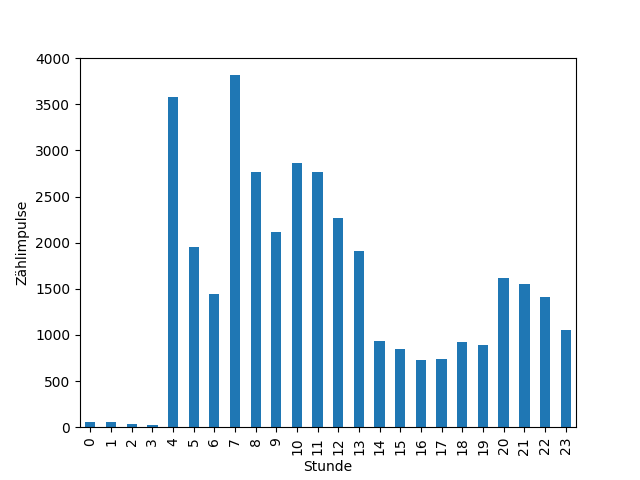
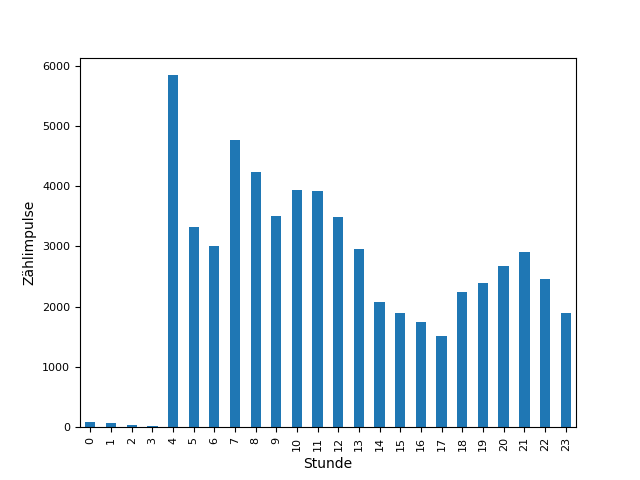
Berichte erweitert, Doku ergänzt

diff --git a/web/index.html b/web/index.html
@@ -2,10 +2,13 @@
 <html class="no-js" lang="">
     <head>
         <meta charset="utf-8">
-        <meta http-equiv="X-UA-Compatible" content="IE=edge,chrome=1">
-        <title></title>
+        <meta http-equiv="X-UA-Compatible" content="IE=edge">
+        <title>Statistiken zum Gaszähler</title>
         <meta name="description" content="">
         <meta name="viewport" content="width=device-width, initial-scale=1">
+
+        <link rel="shortcut icon" href="favicon.ico">
+        <link rel="icon" type="image/png" href="tile.png" sizes="251x251">
         <link rel="apple-touch-icon" href="apple-touch-icon.png">
 
         <link rel="stylesheet" href="css/normalize.min.css">
@@ -20,7 +23,7 @@
 
         <div class="header-container">
             <header class="wrapper clearfix">
-                <h1 class="title">Statistik zum Gaszähler</h1>
+                <h1 class="title">Statistiken zum Gaszähler</h1>
             </header>
         </div>
 
@@ -28,12 +31,20 @@
             <div class="main wrapper clearfix">
 
                 <article>
-                    <div>Gas nach Tag</div>
-                    <img src="img/diagramm_gas_pro_tag.png" alt="Gas nach Tag">
-                    <div>Gas nach Stunde</div>
-                    <img src="img/diagramm_gas_pro_stunde.png" alt="Gas nach Stunde">
+                    <p><b>Erklärung:</b> 1 Zählimpuls entspricht 0,01 m&sup3;. Laut Gasanbieter entspricht 1 m&sup3; dann 10,757 kWh (Stand: 2022). Ein Zählimpuls entspricht also 0,10757 kWh.</p>
+                    <h2>Gas nach Datum (letzte 30 Tage):</h2>
+                    <img src="img/diagramm_gas_pro_tag_letzte_30.png" alt="Gas nach Datum (letzte 30 Tage)">
+                    <hr>
+                    <h2>Gas nach Stunde (gestern):</h2>
+                    <img src="img/diagramm_gas_pro_stunde_gestern.png" alt="Gas nach Stunde (gestern)">
+                    <hr>
+                    <h2>Gas nach Datum (gesamter Zeitraum):</h2>
+                    <img src="img/diagramm_gas_pro_tag.png" alt="Gas nach Datum (gesamter Zeitraum)">
+                    <hr>
+                    <h2>Gas nach Stunde (gesamter Zeitraum):</h2>
+                    <img src="img/diagramm_gas_pro_stunde.png" alt="Gas nach Stunde (gesamter Zeitraum)">
+                    <hr>
                 </article>
-
 
             </div> <!-- #main -->
         </div> <!-- #main-container -->

diff --git a/create_report.py b/create_report.py
@@ -1,8 +1,20 @@
+"""Erstellt Grafiken aus den von interrupt.py gesammelten Daten
+   Autor: Klaus Ritter, Lizenz: MIT
+"""
+
 from datetime import datetime
+from datetime import timedelta
 import pandas as pd
 import matplotlib.pyplot as plt
 import ftplib
 import zaehlerconfig
+import logging
+
+logging.basicConfig(format='%(asctime)s %(message)s')
+logger = logging.getLogger(__name__)
+logger.setLevel(logging.DEBUG)
+
+logdateiname = "zaehler.csv"
 
 # Hilfreiche Befehle
 # print(df.to_string())
@@ -13,7 +25,7 @@ import zaehlerconfig
 
 ############################# Daten vorbereiten ###############################
 # CSV-Datei in Pandas einlesen, Spaltentitel definieren
-df = pd.read_csv('zaehler.csv', sep=';', names=['Impuls', 'Nummer', 'Label', 'Zeitpunkt'])
+df = pd.read_csv(logdateiname, sep=';', names=['Impuls', 'Nummer', 'Label', 'Zeitpunkt'])
 
 # unnötige Spalten löschen
 df = df.drop(columns=['Impuls', 'Nummer', 'Label'])
@@ -24,10 +36,11 @@ df['Datum'] = pd.to_datetime(df['Zeitpunkt'], format='%Y-%m-%d')
 
 ############################# Summe nach Datum (Tag) ###############################
 # Summe pro Tag bilden (gruppieren)
+logger.debug('Tage gruppieren')
 df_gruppiert_datum = df.groupby(pd.Grouper(key='Datum',freq='5D')).agg(summe=('Datum', 'count'))
 
 # Diagramm erstellen
-gas_nach_datum = df_gruppiert_datum.plot(kind = 'bar', xlabel = 'Datum', ylabel = 'Zählimpulse', legend = False)
+gas_nach_datum = df_gruppiert_datum.plot(kind = 'bar', fontsize=8, xlabel = 'Datum', ylabel = 'Zählimpulse', legend = False)
 
 # Beschriftung der x-Achse in ein schönes Format bringen
 x_labels = df_gruppiert_datum.index.strftime('%d.%m.')
@@ -36,28 +49,66 @@ gas_nach_datum.set_xticklabels(x_labels)
 # Ergebnis als Bild speichern
 plt.savefig('web/img/diagramm_gas_pro_tag.png')
 
+############################# Summe nach Datum (letzte 30 Tage) ###############################
+# Summe pro Tag bilden (gruppieren)
+logger.debug('Tage gruppieren (letzte 30 Tage)')
+heute = datetime.today().strftime('%Y-%m-%d') # das Skript sollte erst nach Mitternacht laufen
+vor30tagen =  (datetime.today() + timedelta(days=-30)).strftime('%Y-%m-%d') 
+df_letzte_30_tage = df[(df['Datum'] > vor30tagen) & (df['Datum'] < heute)]
+df_gruppiert_datum = df_letzte_30_tage.groupby(pd.Grouper(key='Datum',freq='D')).agg(summe=('Datum', 'count'))
+
+# Diagramm erstellen
+gas_nach_datum = df_gruppiert_datum.plot(kind = 'bar', fontsize=8, xlabel = 'Datum', ylabel = 'Zählimpulse', legend = False)
+
+# Beschriftung der x-Achse in ein schönes Format bringen
+x_labels = df_gruppiert_datum.index.strftime('%d.%m.')
+gas_nach_datum.set_xticklabels(x_labels)
+
+# Ergebnis als Bild speichern
+plt.savefig('web/img/diagramm_gas_pro_tag_letzte_30.png')
+
 ############################# Summe nach Tageszeit ###############################
 # Summe pro Tag bilden (gruppieren)
-
+logger.debug('Tageszeit gruppieren')
 df_gruppiert_tageszeit = df.groupby(df['Zeitpunkt'].dt.hour).count()
+
 # unnötige Spalten löschen
 df_gruppiert_tageszeit = df_gruppiert_tageszeit.drop(columns=['Datum'])
 
-print(df_gruppiert_tageszeit.to_string())
-print(df_gruppiert_tageszeit.dtypes)
-
 # Diagramm erstellen
-gas_nach_tageszeit = df_gruppiert_tageszeit.plot(kind = 'bar', xlabel = 'Stunde', ylabel = 'Zählimpulse', legend = False)
+gas_nach_tageszeit = df_gruppiert_tageszeit.plot(kind = 'bar', fontsize=8, xlabel = 'Stunde', ylabel = 'Zählimpulse', legend = False)
 
 # Ergebnis als Bild speichern
 plt.savefig('web/img/diagramm_gas_pro_stunde.png')
 
+############################# Summe nach Tageszeit (gestern) ###############################
+# Summe pro Tag bilden (gruppieren)
+logger.debug('Tageszeit gruppieren')
+bereich_start =  (datetime.today() + timedelta(days=-5)).strftime('%Y-%m-%d') 
+bereich_ende =  (datetime.today() + timedelta(days=-4)).strftime('%Y-%m-%d') 
+df_gestern = df[(df['Datum'] > bereich_start) & (df['Datum'] < bereich_ende)]
+df_gruppiert_tageszeit = df_gestern.groupby(pd.Grouper(key='Datum',freq='30min')).count()
+
+# Diagramm erstellen
+gas_nach_tageszeit = df_gruppiert_tageszeit.plot(kind = 'bar', fontsize=8, xlabel = 'Stunde', ylabel = 'Zählimpulse', legend = False)
+
+# Ergebnis als Bild speichern
+plt.savefig('web/img/diagramm_gas_pro_stunde_gestern.png')
+
 ############################# Dateien hochladen ###############################
+logger.debug('FTP-Upload startet')
 session = ftplib.FTP(zaehlerconfig.ftp_adress, zaehlerconfig.ftp_username, zaehlerconfig.ftp_password)
 file = open('web/img/diagramm_gas_pro_tag.png','rb')                  
 session.storbinary('STOR img/diagramm_gas_pro_tag.png', file)   
 file.close()
+file = open('web/img/diagramm_gas_pro_tag_letzte_30.png','rb')                  
+session.storbinary('STOR img/diagramm_gas_pro_tag_letzte_30.png', file)   
+file.close()
 file = open('web/img/diagramm_gas_pro_stunde.png','rb')                  
 session.storbinary('STOR img/diagramm_gas_pro_stunde.png', file)   
-file.close()                                  
+file.close()  
+file = open('web/img/diagramm_gas_pro_stunde_gestern.png','rb')                  
+session.storbinary('STOR img/diagramm_gas_pro_stunde_gestern.png', file)   
+file.close()                             
 session.quit()
+logger.debug('FTP-Upload beendet')

diff --git a/zaehlerconfig.py b/zaehlerconfig.py
@@ -1,4 +1,16 @@
 # Bitte tragen Sie hier Ihre Daten ein!
-ftp_username = 'user'
+ftp_username = 'username'
 ftp_password = 'passwort'
-ftp_adress = 'ftp.example.com'
+ftp_adress = 'example.com'
+
+# Konfiguration zum Gas-Tarif
+gas_anbieter = 'Energieversorgung Musterstadt GmbH'
+gas_cent_pro_kwh = 4.8655 # Stand: Juni 2022
+gas_faktor = 10.757  # "Faktor" kWh pro m³ aus der letzten Gasrechnung, auch "Zustandszahl mal Abrechnungsbrennwert"
+# Beispiel:
+# Zählerstand alt =   4.340,735 m³
+# Zählerstand neu =   6.262,757 m³
+# Differenz       =   1.922,022 m³
+# Differenz * Faktor ergibt
+# Verbrauch       = 20.675,191 kWh
+gas_zaehler_impuls_m3 = 0.01

diff --git a/README.md b/README.md
@@ -1,38 +1,52 @@
 # Gaszähler auslesen und Verbrauchsdaten auf einer Website darstellen
 
 Diese Software besteht aus drei Komponenten:
-* zwei Python-Skripte, die auf einem Raspbetrry Pi ausgeführt werden
+* zwei Python-Skripten, die auf einem Raspbetrry Pi ausgeführt werden
 * einem Cron-Job, der jede Nacht das Statistik-Skript startet
 * Dateien für eine Website, auf der Statistiken dargestellt werden sollen
 
 # Abläufe
-1. Ein Raspberry Pi protokolliert jede Zählerumdrehung durch den Magnetkontakt mit sekundengenauem Zeitstempel.
+1. Ein Raspberry Pi protokolliert jede Umdrehung des Gaszählers durch den Magnetkontakt mit sekundengenauem Zeitstempel.
 1. Jede Nacht werden aus den gesammelten Daten zwei Statistiken erzeugt: Gasverbrauch pro Tag und Gasverbrauch pro Stunde des Tages.
 1. Diese Bilder und ein Nackup der gezippten Protokolldatei werden auf die Website hochgeladen.
 1. Die Inhalte der Website liegen im Ordner web/
 
-# Installation
+# Schritte zur Installation
+* Magnetkontakt mit den GPIO-Pins des Raspberry verkabeln
 * Verzeichnis web/ auf geeigneter Website hochladen
-* interrupt.py und create_report_py auf dem Raspberry kopieren
+* interrupt.py und create_report_py auf den Raspberry in ein leeres Verzeichnis kopieren
 * pip3 install pandas, matplotlib auf dem Pi ausführen
 * interrupt.py 'headless' starten
 * Konfigdaten (u.a. FTP-Passwort) in create_report.py eintragen
 * cron-Job für Start von create_report.py einrichten
 
-Deployment:
+# Verkabelung der Pins auf dem Raspberry Pi 3 B (auf eigene Gefahr!)
+* PIN 17 (+3,3 V)
+* PIN 18 (GPIO 24)
 
-Secure copy (http://www.hypexr.org/linux_scp_help.php)
+# Befehle zur Installation auf dem Raspberry Pi:
+sudo -H pip3 install pandas
+sudo -H pip3 install matplotlib
+Wenn das Verzeichnis "dev" heißt:
+scp interrupt.py pi@<IP-Adresse deines Raspberry Pi>:/home/pi/dev/
+scp create_report.py pi@<IP-Adresse deines Raspberry Pi>:/home/pi/dev/
+Erstellen der Crontab:
+crontab -e
+# m h  dom mon dow   command
+0 1 * * * cd /home/pi/dev && /usr/bin/python create_report.py >> cronlog.txt 2>&1
+nohup python interrupt.py &
 
-scp interrupt.py pi@192.168.178.52:/home/pi/dev/
+# Kopieren der Zählerdatei vom Raspberry Pi auf den lokalen Rechner (z.B. als Backup)
+scp pi@<IP-Adresse deines Raspberry Pi>:/home/pi/dev/zaehler.csv zaehler-lokal.csv
 
+# Knwon issues:
+1. Gas nach Stunde Format y-Achse
+1. Gas nach Datum gesamt - besser letzte 12 Monate
+1. Gas nach Stunde gesamt - besser letzte 12 Monate
+1. zuviel logging
+1. Gas nach Datum (gesamter Zeitraum): heute wird leider einberechnet (kleiner Balken)
 
-Quellen
-https://gitlab.server-kampert.de/Kampi/Raspberry-Pi/-/blob/master/Software/GPIO/Interrupt.py
-
-
-Hardware:
-https://www.elektronik-kompendium.de/sites/raspberry-pi/1907101.htm
-
-Raspberry Pi 3 B
-PIN 17 (+3,3 V)
-PIN 18 (GPIO 24)
+# Quellen
+* https://gitlab.server-kampert.de/Kampi/Raspberry-Pi/-/blob/master/Software/GPIO/Interrupt.py
+* https://www.elektronik-kompendium.de/sites/raspberry-pi/1907101.htm
+* Secure copy http://www.hypexr.org/linux_scp_help.php
